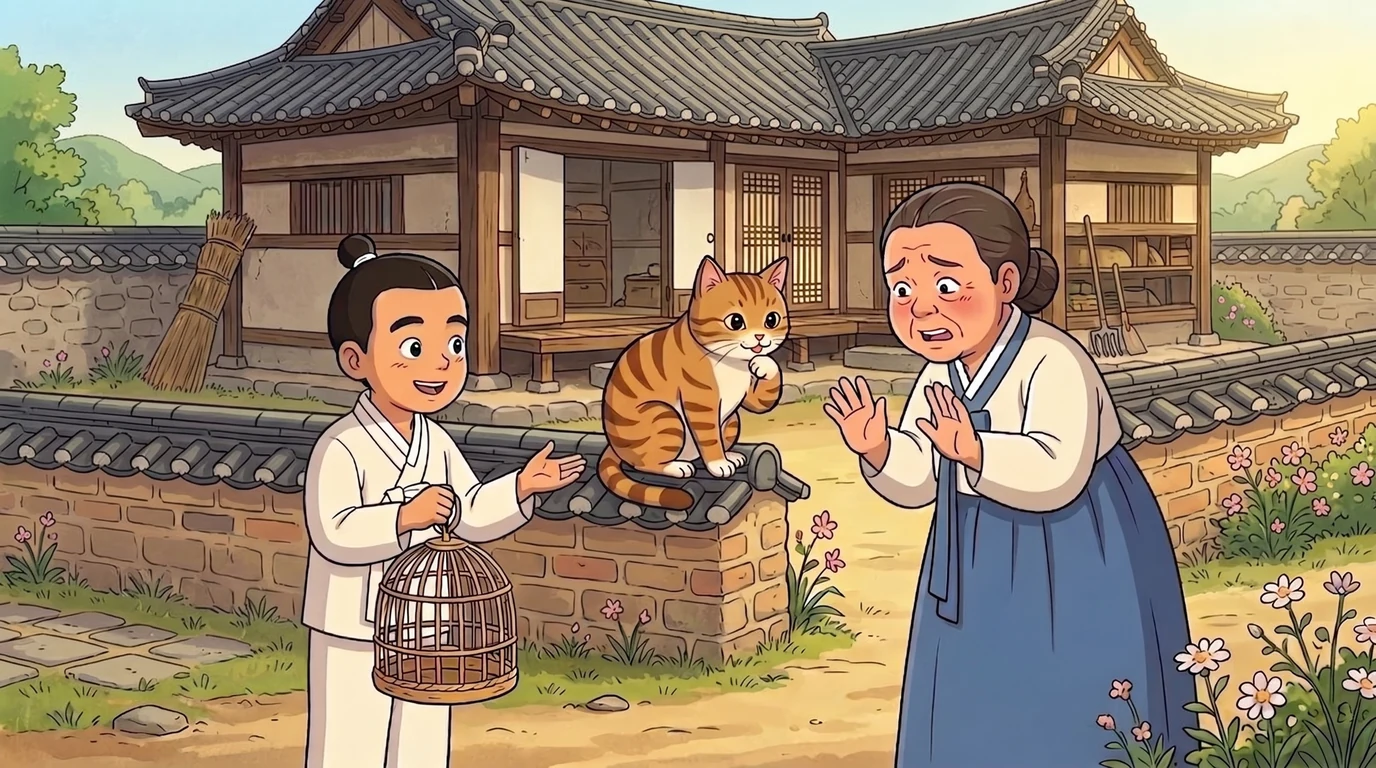
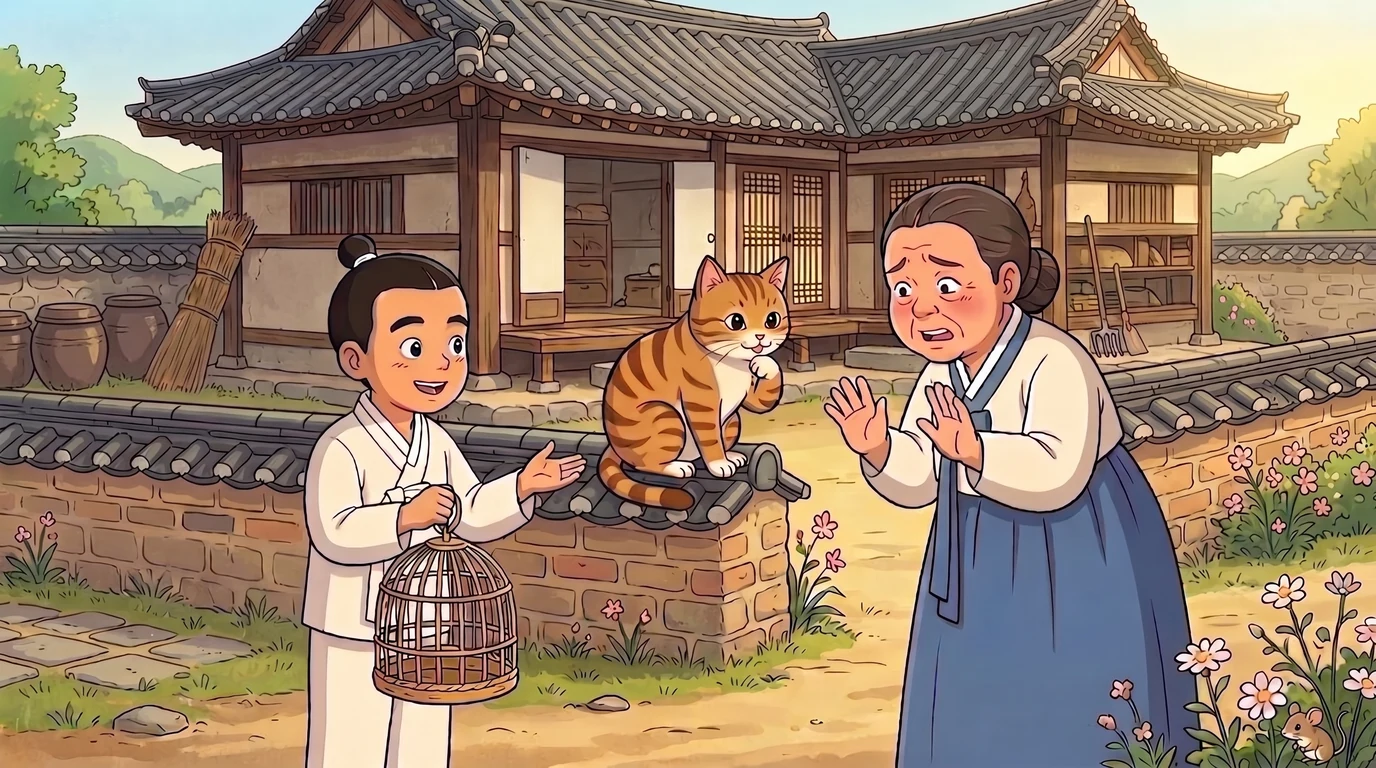
좁쌀 한 톨 — 고양이는 쥐를 잡아먹지 않고 쫓아낸다
「마당에 꼬리만 하나 떨어져 있었습니다」를 뺐다. 그림에도 쥐가 풀숲으로
달아나고 있다. 뒷장에서 개가 고양이를 쫓아내는 것과도 짝이 맞는다.
문항 3번도 「쥐를 쫓아 버린 것은 무엇인가요」로 고쳤다. 04-cat 그림도
쥐가 달아나는 새 그림으로 바꿨다.

아기장수 우투리에 우리말 낱말 마흔넷을 붙였다.

diff --git a/learning/literacy-numeracy/story-books/korea-tales/agijangsu-uturi/app.js b/learning/literacy-numeracy/story-books/korea-tales/agijangsu-uturi/app.js
@@ -743,6 +743,84 @@ const AFTERWORD = {
     ]
 };
 
+
+/* ── 우리말 낱말 ────────────────────────────────────────────
+   아이가 아직 안 배웠을 만한 말만 그 쪽에 모았다. 없는 쪽은 비워 둔다.
+   사전 말투를 쓰지 않는다. 아이가 그대로 알아들을 말로 짧게 쓴다.
+   예문은 그 쪽에 나온 문장 그대로다. */
+const WORDS_KO = {
+    "cover": [
+        { w: "장수", k: "군사를 이끄는 힘센 사람.", s: "아기장수 우투리는 지은이가 없는 옛이야기예요." },
+        { w: "겨드랑이", k: "팔과 몸이 만나는 안쪽 자리.", s: "겨드랑이에 날개를 달고 태어난 아이가" },
+        { w: "어그러지다", k: "잘되어 가던 일이 틀어지다.", s: "콩 한 알이 모자라 일이 어그러집니다." }
+    ],
+    "01-birth.webp": [
+        { w: "산골", k: "산속 깊이 들어앉은 마을.", s: "옛날 어느 산골에 가난한 부부가 살았습니다." },
+        { w: "소원", k: "이루어지기를 바라는 일.", s: "아이 하나만 있으면 소원이 없겠소." },
+        { w: "돋다", k: "없던 것이 새로 나오다.", s: "아기의 겨드랑이에 조그만 날개가 돋아 있었거든요." },
+        { w: "말을 잃다", k: "놀라서 아무 말도 못 하다.", s: "아버지도 말을 잃었습니다." }
+    ],
+    "02-fly.webp": [
+        { w: "이레", k: "이렛날, 곧 일곱 날.", s: "태어난 지 이레, 그러니까 칠 일째 되던 날이었어요." },
+        { w: "대들보", k: "지붕을 받치는 가장 굵은 나무.", s: "아기는 천장 대들보 위에 앉아 있었답니다." },
+        { w: "까르르", k: "아이가 크게 웃는 소리.", s: "그런데 위에서 까르르 웃음소리가 났지요." },
+        { w: "절구", k: "곡식을 빻는 돌그릇.", s: "백 일이 되자 절구를 한 손으로 들었고" },
+        { w: "돌", k: "태어나고 꼭 한 해가 되는 날.", s: "돌이 되자 소를 번쩍 안아 올렸지요." }
+    ],
+    "03-law.webp": [
+        { w: "뒤엎다", k: "뒤집어 없애 버리다.", s: "날개 달린 아이는 나라를 뒤엎는다 하여" },
+        { w: "관가", k: "옛날에 고을 일을 보던 관청.", s: "관가에서 알면 우리 집도 마을도 다 끝이오." },
+        { w: "수군거리다", k: "남몰래 소곤소곤 이야기하다.", s: "장터에서 사람들이 수군거렸지요." },
+        { w: "잠을 설치다", k: "잠을 제대로 못 자다.", s: "어머니는 밤마다 문고리를 붙들고 잠을 설쳤습니다." }
+    ],
+    "04-decide.webp": [
+        { w: "차분하다", k: "들뜨지 않고 가라앉아 있다.", s: "목소리가 어른처럼 차분했지요." },
+        { w: "말", k: "곡식을 되는 큰 그릇, 또 그만큼의 양.", s: "콩 서 말과 팥 서 말만 볶아 주세요." },
+        { w: "되", k: "곡식을 되는 그릇, 말보다 작다.", s: "한 말은 커다란 되로 하나 가득이니" }
+    ],
+    "05-beans.webp": [
+        { w: "가마솥", k: "아주 큰 무쇠솥.", s: "이튿날 어머니가 가마솥에 콩을 볶았어요." },
+        { w: "고소하다", k: "볶은 깨나 콩에서 나는 맛과 냄새.", s: "고소한 냄새가 퍼졌지요." },
+        { w: "타닥타닥", k: "작은 것이 튀며 나는 소리.", s: "콩이 타닥타닥 튀었어요." },
+        { w: "훔치다", k: "물기를 닦아 내다.", s: "어머니는 자꾸 눈물이 나서 손등으로 훔쳤습니다." },
+        { w: "자루", k: "물건을 담는 큰 주머니.", s: "우투리가 콩 자루와 팥 자루를 가볍게 졌어요." }
+    ],
+    "06-rock.webp": [
+        { w: "집채", k: "집 한 채. 아주 크다는 뜻으로 쓴다.", s: "산 깊은 곳에 집채만 한 바위가 있었어요." },
+        { w: "부려 놓다", k: "짐을 내려놓다.", s: "우투리는 콩 자루와 팥 자루를 안에 부려 놓았어요." },
+        { w: "자국", k: "무엇이 닿아 남은 자리.", s: "갈라진 자국 하나 남지 않았지요." }
+    ],
+    "07-soldiers.webp": [
+        { w: "날을 꼽다", k: "날짜를 하나씩 세며 기다리다.", s: "손가락으로 날을 꼽았어요." },
+        { w: "사또", k: "옛날 고을을 다스리던 벼슬아치.", s: "사또가 벌떡 일어났지요." },
+        { w: "관군", k: "나라에 딸린 군사.", s: "이튿날 창을 든 관군이 마을로 몰려왔답니다." }
+    ],
+    "08-torch.webp": [
+        { w: "횃불", k: "막대 끝에 붙여 든 불.", s: "관군 대장이 횃불을 들어 올렸습니다." },
+        { w: "자지러지다", k: "놀라서 몸을 떨며 크게 울다.", s: "옆집 아기가 어머니 품에서 자지러지게 울었어요." }
+    ],
+    "09-open.webp": [
+        { w: "꿈쩍하다", k: "조금 움직이다.", s: "아무리 밀어도 바위는 꿈쩍하지 않았지요." },
+        { w: "갑옷", k: "싸울 때 몸에 입던 쇠옷.", s: "갑옷을 입은 군사들이 줄지어 서 있고" },
+        { w: "눈이 부시다", k: "빛이 강해 바로 보기 어렵다.", s: "바위 속은 눈이 부셨어요." }
+    ],
+    "10-onebean.webp": [
+        { w: "맨 끝", k: "가장 마지막.", s: "그런데 맨 끝자리 하나가 비어 있었어요." },
+        { w: "모자라다", k: "있어야 할 만큼이 안 되다.", s: "콩 한 알이 모자랐던 거예요." }
+    ],
+    "11-horse.webp": [
+        { w: "못", k: "물이 고여 있는 넓은 곳.", s: "그때 산 아래 못에서 큰 울음소리가 났어요." },
+        { w: "솟구치다", k: "위로 세차게 솟아오르다.", s: "물이 갈라지더니 흰 말 한 마리가 솟구쳐 올랐지요." },
+        { w: "용마", k: "장수를 태우려고 하늘이 보내는 날개 달린 말.", s: "등에 날개가 달린 용마였어요." },
+        { w: "얼어붙다", k: "놀라서 그대로 굳다.", s: "관군도 마을 사람들도 그 자리에 얼어붙었지요." }
+    ],
+    "12-pond.webp": [
+        { w: "말발굽", k: "말의 발 끝에 있는 단단한 부분.", s: "바위에는 지금도 말발굽 자국이 남아 있대요." },
+        { w: "되뇌다", k: "같은 말을 자꾸 되풀이하다.", s: "평생 그 말을 되뇌었지요." },
+        { w: "때를 만나다", k: "알맞은 기회를 얻다.", s: "아기장수는 죽은 게 아니다. 때를 못 만난 것이다." }
+    ]
+};
+
 /* ── 한국어·영어 ────────────────────────────────────────────
    글은 두 벌이다. 위쪽 단추를 누르면 EN 쪽으로 갈아 끼우고 쪽을 다시 짠다.
    영어 원고가 없는 책은 단추가 아예 뜨지 않는다. */

diff --git a/learning/literacy-numeracy/story-books/korea-tales/jopssal-han-tol/app.js b/learning/literacy-numeracy/story-books/korea-tales/jopssal-han-tol/app.js
@@ -69,7 +69,7 @@ const CHAPTERS = [
                     "주인은 어이가 없어 눈만 껌뻑였지요."
                 ],
                 right: [
-                    "그런데 아침에 보니 그 집 고양이가 쥐를 물어 가 버렸지 뭐예요. 마당에 꼬리만 하나 떨어져 있었습니다.",
+                    "그런데 아침에 보니 그 집 고양이가 쥐를 쫓아 버렸지 뭐예요. 쥐는 그길로 풀숲으로 쏙 달아났지요.",
                     "\"어허, 이걸 어쩌나.\"",
                     "\"미안하게 됐네.\"",
                     "\"할 수 없구먼. 그럼 이 고양이를 데려가게.\""
@@ -282,7 +282,7 @@ const EN = {
                         "He was so puzzled that he could only blink."
                     ],
                     right: [
-                        "But in the morning the house cat had carried the mouse off. All that was left in the yard was one small tail.",
+                        "But in the morning the house cat had chased the mouse off. It had run away into the grass and was gone.",
                         { t: "\"Oh dear. What do we do now?\"", v: "man" },
                         { t: "\"I'm so sorry about this.\"", v: "man" },
                         { t: "\"Well, then. Take the cat instead.\"", v: "man" }
@@ -397,7 +397,7 @@ const EN = {
     quiz: [
         { q: "What did the boy tell his mother as he left home?", choices: ["That he'd bring back rice", "That he'd see the wide world", "That he'd buy an ox"], answer: 1 },
         { q: "What ate the grain of millet?", choices: ["A bird", "A dog", "A mouse"], answer: 2 },
-        { q: "What carried the mouse off?", choices: ["A cat", "A dog", "An ox"], answer: 0 },
+        { q: "What chased the mouse off?", choices: ["A cat", "A dog", "An ox"], answer: 0 },
         { q: "How did the dog leave that house?", choices: ["It was chased over the wall", "It snapped its rope and ran", "It bit through the reins"], answer: 1 },
         { q: "What did the boy get last of all?", choices: ["A horse", "A cat", "An ox"], answer: 2 },
         { q: "What did the boy take out of his coat and open up?", choices: ["The ox's rope", "An old bundle", "A folded sheet of paper"], answer: 2 },
@@ -550,11 +550,11 @@ const EN = {
             { w: "puzzled", k: "어리둥절한", s: "He was so puzzled" },
             { w: "so ~ that ...", k: "너무 ~해서 ...하다", s: "so puzzled that he could only blink" },
             { w: "could only blink", k: "눈만 껌뻑일 뿐이었다", s: "he could only blink" },
-            { w: "had carried ~ off (carry off)", k: "물고 가 버렸다", s: "the house cat had carried the mouse off" },
-            { w: "house cat", k: "그 집 고양이", s: "the house cat had carried the mouse off" },
-            { w: "All that was left", k: "남은 것이라고는", s: "All that was left in the yard" },
-            { w: "yard", k: "마당", s: "All that was left in the yard" },
-            { w: "tail", k: "꼬리", s: "was one small tail" },
+            { w: "had chased ~ off (chase off)", k: "쫓아 버렸다", s: "the house cat had chased the mouse off" },
+            { w: "house cat", k: "그 집 고양이", s: "the house cat had chased the mouse off" },
+            { w: "run away (run)", k: "달아났다", s: "It had run away into the grass and was gone." },
+            { w: "grass", k: "풀숲", s: "It had run away into the grass" },
+            { w: "was gone (go)", k: "없어졌다", s: "It had run away into the grass and was gone." },
             { w: "Oh dear.", k: "아이고, 저런.", s: "Oh dear. What do we do now?" },
             { w: "Well, then.", k: "할 수 없구먼.", s: "Well, then. Take the cat instead." },
             { w: "instead", k: "대신에", s: "Take the cat instead." }
@@ -689,7 +689,7 @@ const EN = {
 const QUIZ = [
     { q: "소년은 집을 떠나며 어머니에게 뭐라고 했나요?", choices: ["쌀을 구해 오겠다고", "큰 세상을 보겠다고", "황소를 사 오겠다고"], answer: 1 },
     { q: "좁쌀을 먹어 버린 것은 무엇인가요?", choices: ["새", "개", "쥐"], answer: 2 },
-    { q: "쥐를 물어 간 것은 무엇인가요?", choices: ["고양이", "개", "황소"], answer: 0 },
+    { q: "쥐를 쫓아 버린 것은 무엇인가요?", choices: ["고양이", "개", "황소"], answer: 0 },
     { q: "개는 어떻게 그 집을 떠났나요?", choices: ["담 밖으로 쫓겨 갔다", "줄을 끊고 달아났다", "고삐를 물어뜯었다"], answer: 1 },
     { q: "소년이 마지막으로 얻은 것은 무엇인가요?", choices: ["말", "고양이", "황소"], answer: 2 },
     { q: "소년이 품에서 꺼내 편 것은 무엇인가요?", choices: ["황소의 고삐", "낡은 봇짐 하나", "접힌 종이 한 장"], answer: 2 },
